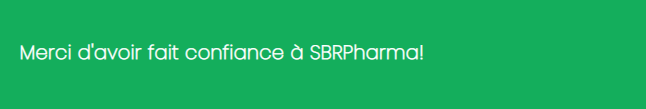
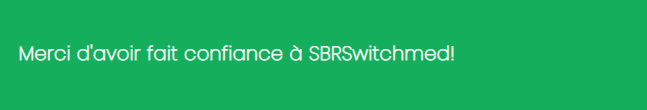
changed pharma to switchmed

Changed region(s): [[0.031, 0.3853, 0.7121, 0.578]]

diff --git a/presets/em.html b/presets/em.html
@@ -20,7 +20,7 @@
                 <td style='background-color: #1c1e1f;'>
 
                     <div style='background-color: #14ae5c;height: 7em;'>
-                        <!-- <h2 style='font-family: Poppins, sans-serif;font-size: 120%;font-weight: 600;font-stretch:extra-expanded;color: white;padding-left: 3%;padding-top: 6%;letter-spacing: 0.5px;'>Merci d'avoir fait confiance à SBRPharma!</h2> -->
+                        <!-- <h2 style='font-family: Poppins, sans-serif;font-size: 120%;font-weight: 600;font-stretch:extra-expanded;color: white;padding-left: 3%;padding-top: 6%;letter-spacing: 0.5px;'>Merci d'avoir fait confiance à SBRSwitchmed!</h2> -->
                         <img src="/assets/img/mailheader.png">
                     </div>
 
@@ -50,7 +50,7 @@
                         <br>
                         <p style='color: white;font-size:small;font-weight: 600;font-family: Montserrat, sans-serif;'>Si vous avez des questions, veuillez nous envoyer une demande <a href='http://localhost/sbrnet/contact.php'>ici</a></p>
                         <p style='color: white;font-size:small;font-weight: 600;font-family: Montserrat, sans-serif;'>Cordialement,<br>
-                        Equipe SBRPharma</p>
+                        Equipe SBRSwitchmed</p>
                     </div>
                     
                 </td>

diff --git a/index.php b/index.php
@@ -7,7 +7,7 @@
     <meta charset="UTF-8">
     <meta http-equiv="X-UA-Compatible" content="IE=edge">
     <meta name="viewport" content="width=device-width, initial-scale=1.0">
-    <title>SBRPharma</title>
+    <title>SBRSwitchmed</title>
     <link rel = "icon" type = "image/png" href = "assets/img/iconsbr.png">
 
     <link href="assets/vendor/boxicons/css/boxicons.min.css" rel="stylesheet"> <!--logos-->
@@ -45,7 +45,7 @@
     <!-- Texte -->
     <div class="wp-container-14 wp-block-group" style="padding-top:3vh;padding-bottom:3vh;text-align: center;">
       <h2 class="has-text-align-center has-small-font-size" id="my-all-time-favourite-scent-it-smells-divine-and-lasts-all-day-a-true-and-beautiful-rose-fragrance" style="line-height:1.5;font-style: italic;"><em style="font-size:x-large;font-weight: 300;">“Notre gamme de produits biologiques s'appuie sur les propriétés naturelles des plantes et de l'ensemble du monde végétal.”</em></h2>
-      <p class="has-text-align-center has-small-font-size">SBR Pharma</p>
+      <p class="has-text-align-center has-small-font-size">SBR Switchmed</p>
     </div>
     <!-- Fin Texte-->
 
@@ -109,7 +109,7 @@
       <div class="container">
         <div class="row">
           <div class="col-lg-3 col-md-6 footer-contact">
-            <h3 style="color: white;font-size:larger;font-weight: bold;">SBR Pharma</h3>
+            <h3 style="color: white;font-size:larger;font-weight: bold;">SBR Switchmed</h3>
             <p>
               Tunisie, TN
               <!-- <strong>Email:</strong> info@example.com<br> -->
@@ -154,7 +154,7 @@
 
       <div class="me-md-auto text-center text-md-start">
         <div class="copyright">
-          Copyright &copy;<script>document.write(new Date().getFullYear());</script> | <strong><span> SBR-Pharma</span></strong>
+          Copyright &copy;<script>document.write(new Date().getFullYear());</script> | <strong><span> SBRSwitchmed</span></strong>
         </div>
       </div>
       <div class="social-links text-center text-md-right pt-3 pt-md-0">

diff --git a/checkout.php b/checkout.php
@@ -142,7 +142,7 @@
             $mail->addAddress($email);
       
             $mail->isHTML(true);
-            $mail->Subject = "Commande d'achat chez SBRPharma";
+            $mail->Subject = "Commande d'achat chez SBRSwitchmed";
             $mail->Body = "        
                 <table  width='100%' border='0' cellspacing='0' cellpadding='0'>
                     <tr>
@@ -179,9 +179,9 @@
                                 <br>
                                 <p style='color: white;font-size:small;font-weight: 600;font-family: Montserrat, sans-serif;'>Si vous avez des questions, veuillez nous envoyer une demande <a href='http://localhost/sbrnet/contact.php'>ici</a></p>
                                 <p style='color: white;font-size:small;font-weight: 600;font-family: Montserrat, sans-serif;'>Cordialement,<br>
-                                Equipe SBRPharma</p>
+                                Equipe SBRSwitchmed</p>
                             </div>
-                            
+
                         </td>
                         <td style='background-color: #24282D;' width='33%'></td>
                     </tr>

diff --git a/includes/header.php b/includes/header.php
@@ -3,7 +3,7 @@
 
     <!-- Uncomment below if you prefer to use an image logo -->
     <!-- <a href="index.php" class="logo me-auto"><img src = "assets/img/logosbr.png" alt="" class="img-fluid"></a> -->
-    <h1 class="logo me-auto"><a href="index.php"><img src = "assets/img/logosbr.png" alt="" class="img-fluid" style="padding-top: 2px;"><span style="color: 00ffb4;font-size: large;font-weight: 500 !important;">  SBR-Pharma</span> </a></h1>
+    <h1 class="logo me-auto"><a href="index.php"><img src = "assets/img/logosbr.png" alt="" class="img-fluid" style="padding-top: 2px;"><span style="color: 00ffb4;font-size: large;font-weight: 500 !important;">  SBRSwitchmed</span> </a></h1>
 
     <nav id="navbar" class="navbar order-last order-lg-0">
         <ul>

diff --git a/prod/includes/header.php b/prod/includes/header.php
@@ -1,7 +1,7 @@
 <header id="header" class="fixed-top">
     <div class="container d-flex align-items-center">
 
-    <h1 class="logo me-auto"><a href="../index.php"><img src = "../assets/img/logosbr.png" alt="" class="img-fluid" style="padding-top: 2px;"><span style="color: 00ffb4;font-size: large;font-weight: 500 !important;">  SBR-Pharma</span> </a></h1>
+    <h1 class="logo me-auto"><a href="../index.php"><img src = "../assets/img/logosbr.png" alt="" class="img-fluid" style="padding-top: 2px;"><span style="color: 00ffb4;font-size: large;font-weight: 500 !important;">  SBRSwitchmed</span> </a></h1>
 
     <nav id="navbar" class="navbar order-last order-lg-0">
         <ul>

diff --git a/adm/loginpage.php b/adm/loginpage.php
@@ -10,7 +10,7 @@ if(! isset($_SESSION['authentication']))
         <meta charset="UTF-8">
         <meta http-equiv="X-UA-Compatible" content="IE=edge">
         <meta name="viewport" content="width=device-width, initial-scale=1.0">
-        <title>SBRPharma</title>
+        <title>SBRswitchmed</title>
         <link href="//maxcdn.bootstrapcdn.com/bootstrap/4.0.0/css/bootstrap.min.css" rel="stylesheet" id="bootstrap-css">
         <script src="//maxcdn.bootstrapcdn.com/bootstrap/4.0.0/js/bootstrap.min.js"></script>
         <link href="logincss.css" rel="stylesheet">

diff --git a/prod/argiles.php b/prod/argiles.php
@@ -245,7 +245,7 @@ if(empty($e)){
 
         <div class="me-md-auto text-center text-md-start">
             <div class="copyright">
-            Copyright &copy;<script>document.write(new Date().getFullYear());</script> | <strong><span> SBR-Pharma</span></strong>
+            Copyright &copy;<script>document.write(new Date().getFullYear());</script> | <strong><span> SBRSwitchmed</span></strong>
             </div>
         </div>
         <div class="social-links text-center text-md-right pt-3 pt-md-0">

diff --git a/prod/bouchor.php b/prod/bouchor.php
@@ -245,7 +245,7 @@ if(empty($e)){
 
         <div class="me-md-auto text-center text-md-start">
             <div class="copyright">
-            Copyright &copy;<script>document.write(new Date().getFullYear());</script> | <strong><span> SBR-Pharma</span></strong>
+            Copyright &copy;<script>document.write(new Date().getFullYear());</script> | <strong><span> SBRSwitchmed</span></strong>
             </div>
         </div>
         <div class="social-links text-center text-md-right pt-3 pt-md-0">

diff --git a/prod/eauflor.php b/prod/eauflor.php
@@ -245,7 +245,7 @@ if(empty($e)){
 
         <div class="me-md-auto text-center text-md-start">
             <div class="copyright">
-            Copyright &copy;<script>document.write(new Date().getFullYear());</script> | <strong><span> SBR-Pharma</span></strong>
+            Copyright &copy;<script>document.write(new Date().getFullYear());</script> | <strong><span> SBRSwitchmed</span></strong>
             </div>
         </div>
         <div class="social-links text-center text-md-right pt-3 pt-md-0">

diff --git a/prod/gelhydro.php b/prod/gelhydro.php
@@ -244,7 +244,7 @@ if(empty($e)){
 
         <div class="me-md-auto text-center text-md-start">
             <div class="copyright">
-            Copyright &copy;<script>document.write(new Date().getFullYear());</script> | <strong><span> SBR-Pharma</span></strong>
+            Copyright &copy;<script>document.write(new Date().getFullYear());</script> | <strong><span> SBRSwitchmed</span></strong>
             </div>
         </div>
         <div class="social-links text-center text-md-right pt-3 pt-md-0">

diff --git a/prod/huilesess.php b/prod/huilesess.php
@@ -160,7 +160,7 @@ if(empty($e)){
 
         <div class="me-md-auto text-center text-md-start">
             <div class="copyright">
-            Copyright &copy;<script>document.write(new Date().getFullYear());</script> | <strong><span> SBR-Pharma</span></strong>
+            Copyright &copy;<script>document.write(new Date().getFullYear());</script> | <strong><span> SBRSwitchmed</span></strong>
             </div>
         </div>
         <div class="social-links text-center text-md-right pt-3 pt-md-0">

diff --git a/prod/huilesveg.php b/prod/huilesveg.php
@@ -245,7 +245,7 @@ if(empty($e)){
 
         <div class="me-md-auto text-center text-md-start">
             <div class="copyright">
-            Copyright &copy;<script>document.write(new Date().getFullYear());</script> | <strong><span> SBR-Pharma</span></strong>
+            Copyright &copy;<script>document.write(new Date().getFullYear());</script> | <strong><span> SBRSwitchmed</span></strong>
             </div>
         </div>
         <div class="social-links text-center text-md-right pt-3 pt-md-0">
